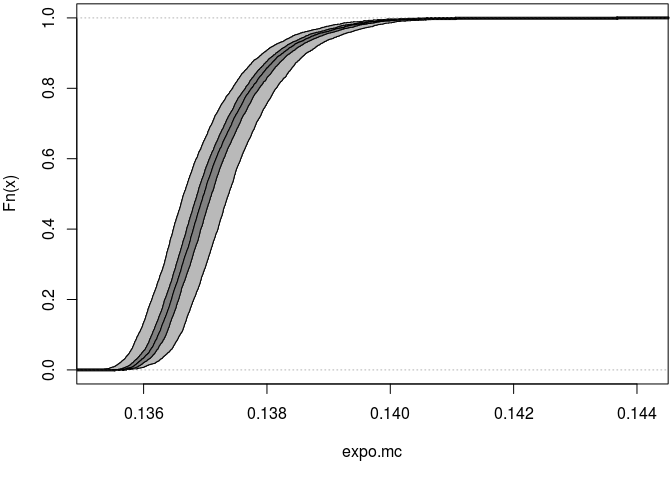
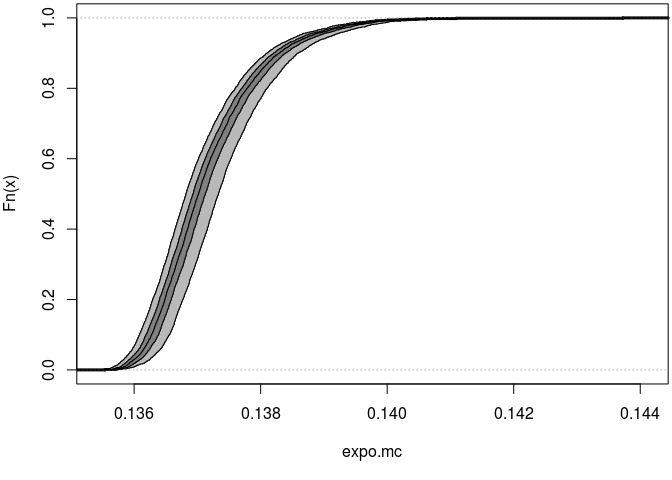
Used a truncated normal distribution to sample swimming exposure to avoid negative values.

diff --git a/ex0618prob2d.md b/ex0618prob2d.md
@@ -88,15 +88,22 @@ normal distribution.
 
 For the uncertainty dimension, generate 250 random samples from a normal 
 distribution to estimate ingestion rate (IR) in mL of surface water while
-swimming. 
+swimming. We want to make sure our values positive, so we will draw from
+a normal distribution which is truncated at 0.
 
 
 ```r
+# Create a function to randomly draw from a truncated normal distribution.
+# From: Author = "Dason"; URL = http://stackoverflow.com/questions/19343133/
+rtnorm <- function(n, mean, sd, min = -Inf, max = Inf){
+    qnorm(runif(n, pnorm(min, mean, sd), pnorm(max, mean, sd)), mean, sd)
+}
+
 # The point estimate of 50 mL/hr for ingestion of surface water while swimming 
 # is taken from the QMRA textbook (Haas et al. 2014), page 215. We set it here
 # as the mean. The standard deviation value of 45 used here is fictitious.
 set.seed(seed)
-sw.d.IR <- rnorm(nsu, mean = 50, sd = 45)
+sw.d.IR <- rtnorm(nsu, mean = 50, sd = 45, min = 0)
 ```
 
 Plot the kernel density estimates for surface water ingestion rate.
@@ -192,7 +199,7 @@ quantile(mean.risk, probs = seq(0, 1, 0.025))[c("2.5%", "50%", "97.5%")]
 
 ```
 ##    2.5%     50%   97.5% 
-## 0.13683 0.13714 0.13752
+## 0.13699 0.13718 0.13748
 ```
 
 Next, we plot the empirical cumulative distribution function of the risk 
